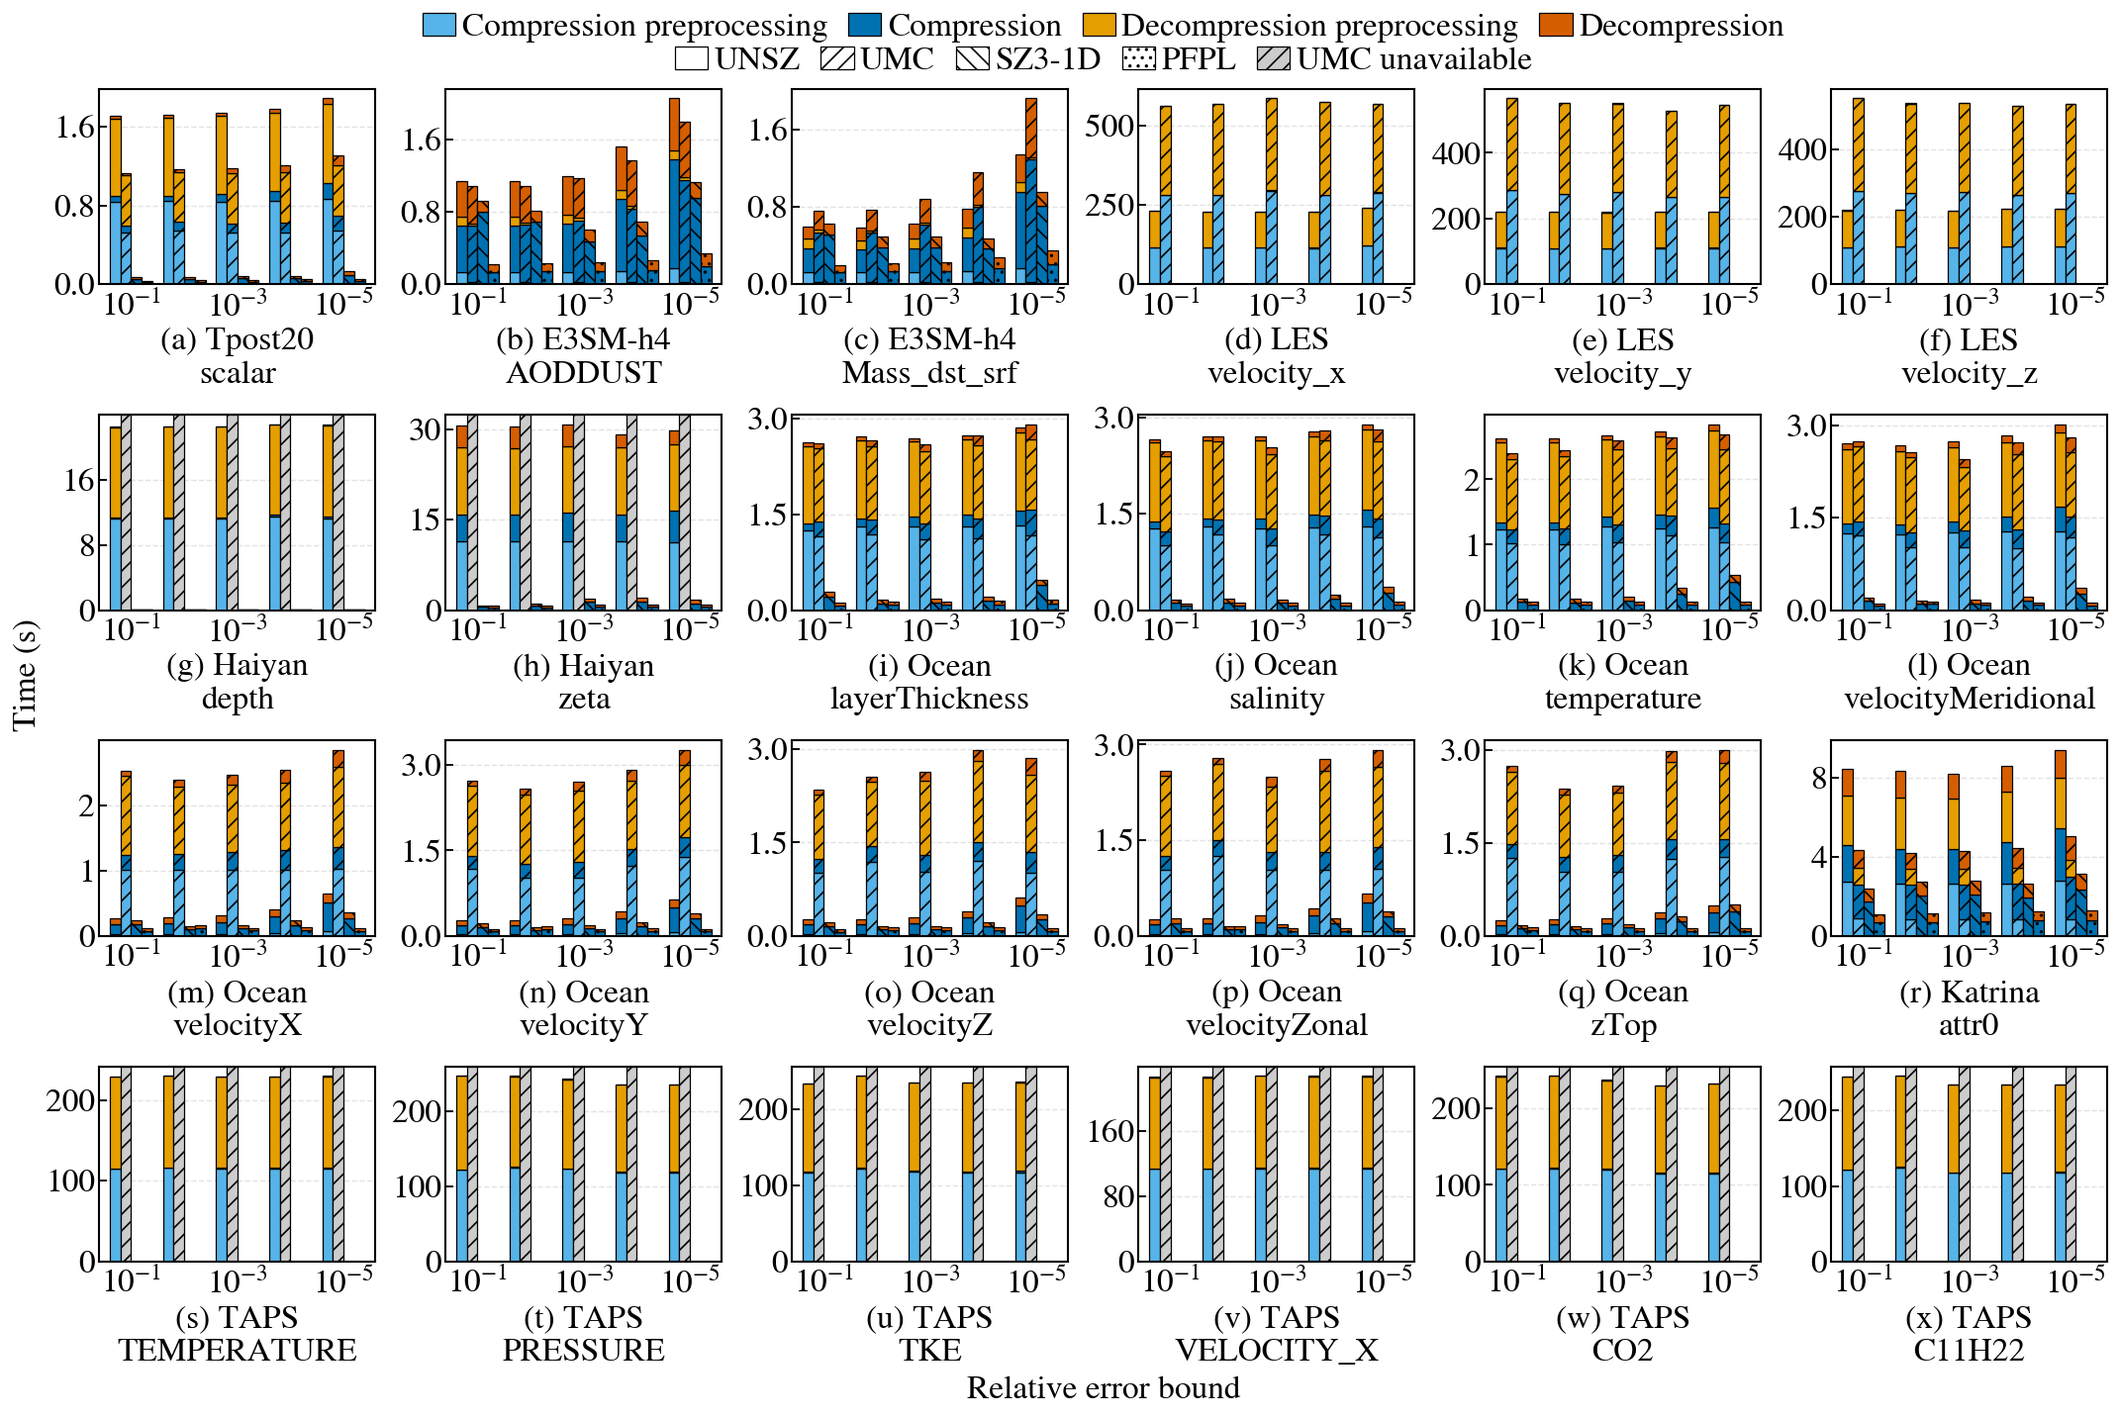
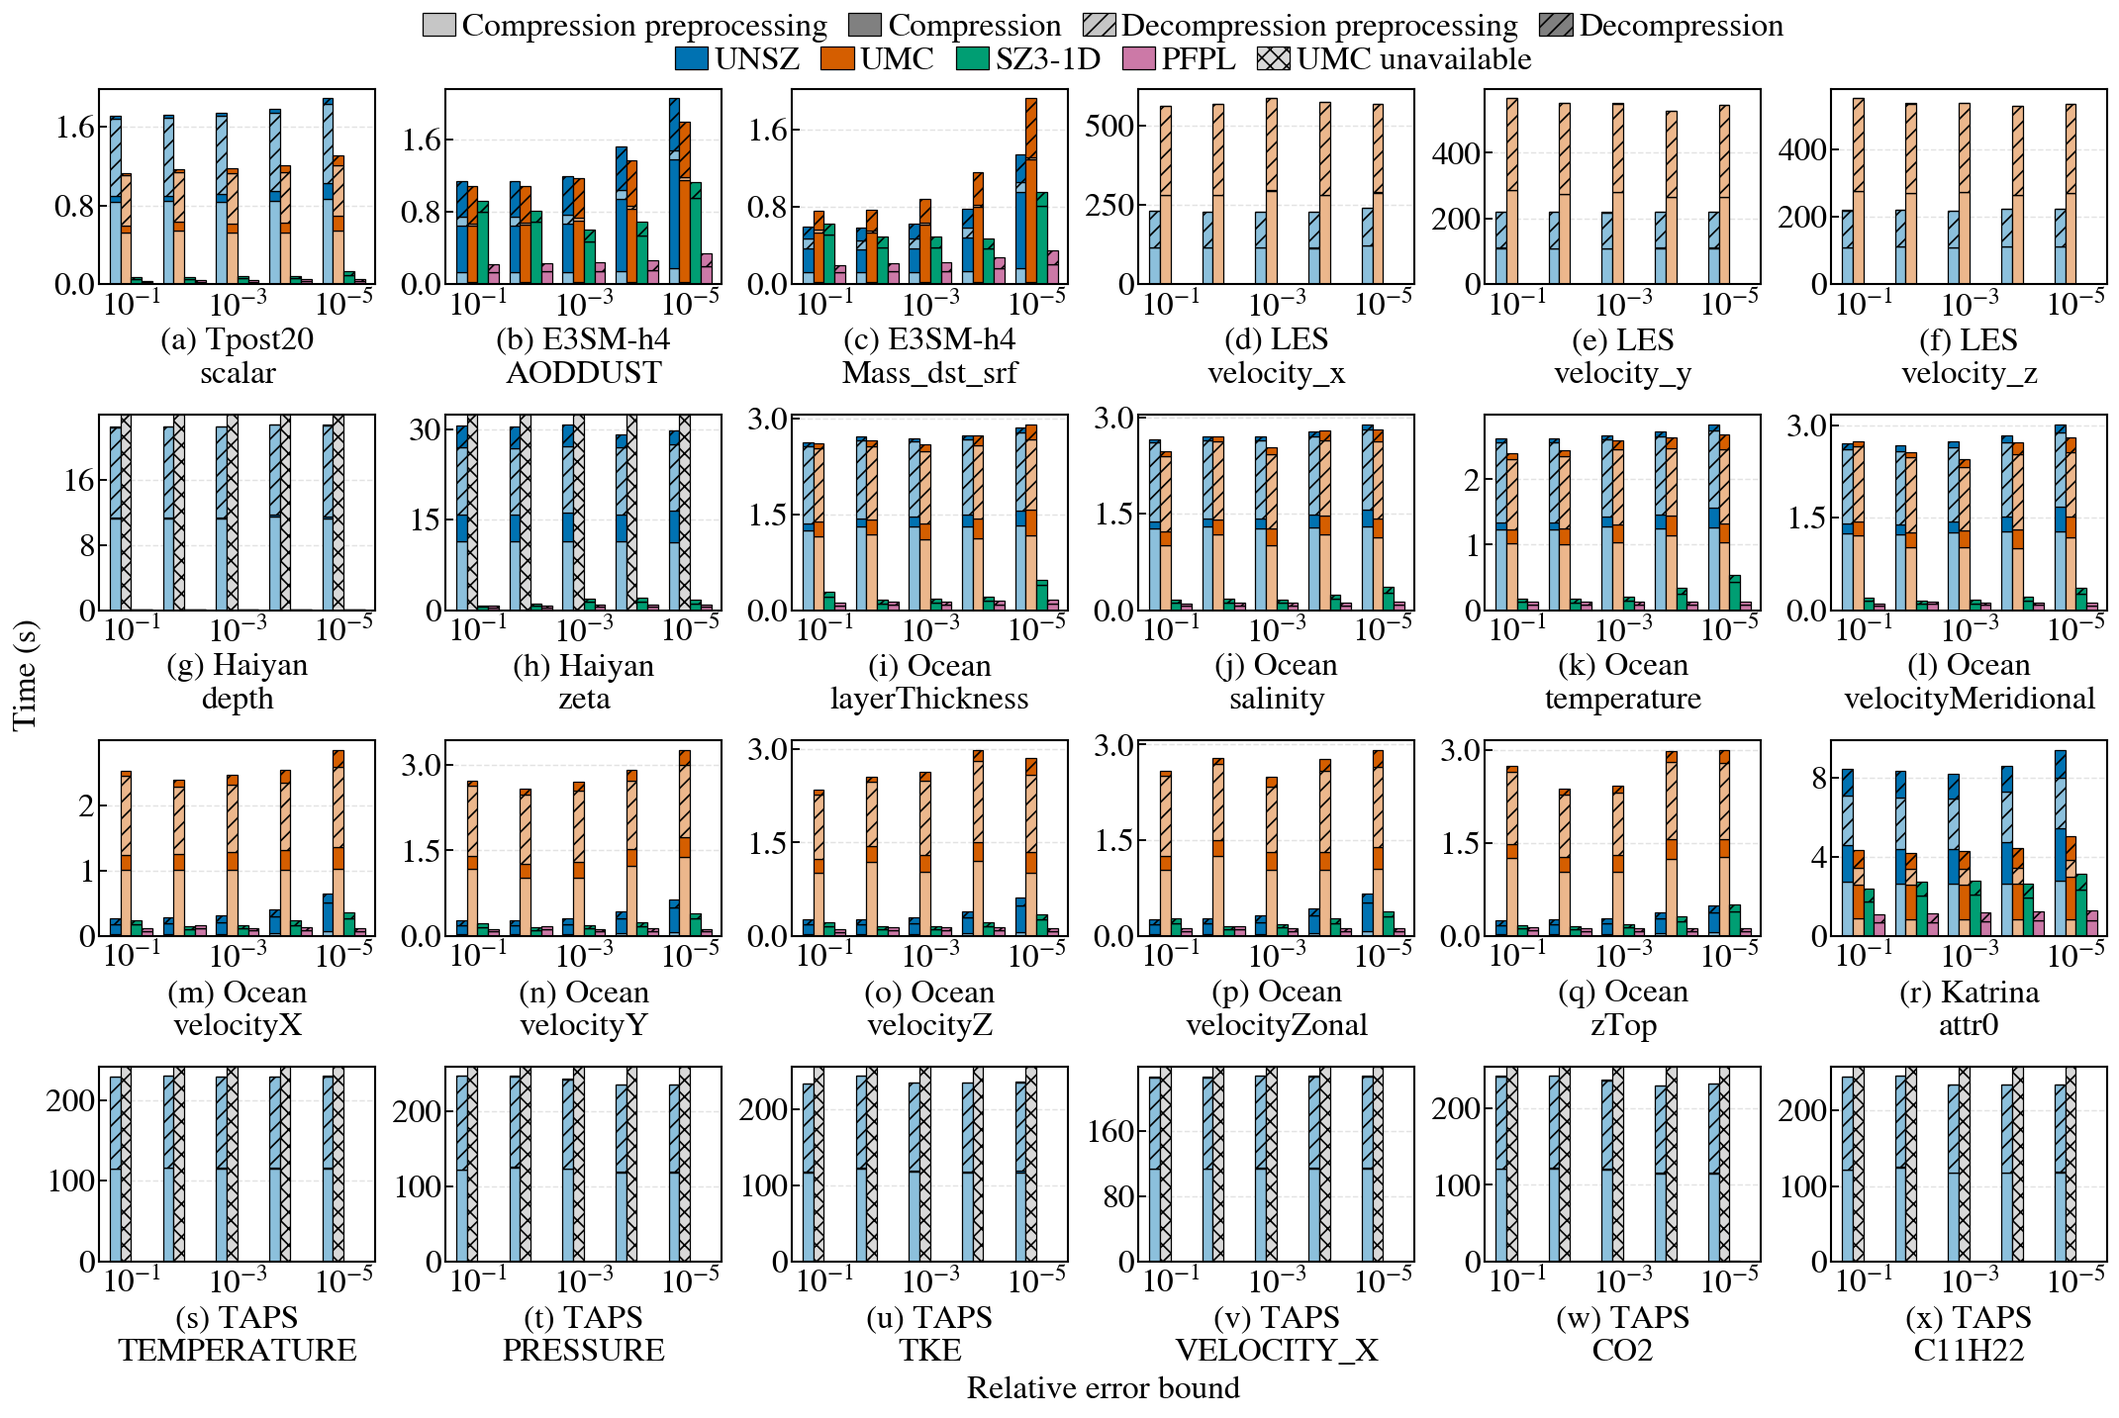
Add acknowledgments, redraw runtime figures, and revise Sections I-VII
- Add the funding, ALCF, and Anvil/ACCESS acknowledgment and a separate AI-generated content acknowledgment, and add Pinaki Pal as an author.
- Redraw Figures 7-9 so that colors mark compressors and shading and hatching mark the four time components, and show stacked time bars for Ocean-large.
- Move the speed comparison of the evaluated compressors to Section II-C and let Section III-E refer to it.
- Explain the preprocessing and codec speedups on Ocean-large, the parallelization and memory use of SZ3-ND and QoZ-ND, and the mean mesh degree of LES.
- Remove repeated explanations and compression ratios from runtime subsections, and simplify the conclusion.

diff --git a/py_codes/plot_ocean_large.py b/py_codes/plot_ocean_large.py
@@ -3,10 +3,11 @@ from pathlib import Path
 
 import matplotlib.pyplot as plt
 from matplotlib.lines import Line2D
+from matplotlib.patches import Patch
 from matplotlib.ticker import FixedLocator,LogLocator,MaxNLocator,NullLocator
-from paperfig import PANEL_GAP_WITH_YLABEL_PT,PaperFigureSpec,add_panel_captions,align_xlabels,apply_paper_style,layout_panel_row,legend_spacing_kwargs,panel_aspect_ratios,save_paper_png_vertical_crop,style_plot_axis
+from paperfig import DEFAULT_LEGEND_ROW_GAP_PT,MPL_POINTS_PER_INCH,PANEL_GAP_WITH_YLABEL_PT,PaperFigureSpec,add_panel_captions,align_xlabels,apply_paper_style,layout_panel_row,legend_spacing_kwargs,panel_aspect_ratios,save_paper_png_vertical_crop,style_plot_axis
 
-from plot_current_benchmarks import add_top_legend
+from plot_current_benchmarks import add_top_legend,time_segment_style,time_stage_handles,time_stage_labels
 from summarize_current_results import calculate_bd_rate
 
 
@@ -36,9 +37,26 @@ def load_runs(result_root,mode):
                 selected=[row for row in rows if shape is None or row["shape"]==shape]
                 error=sum(float(row["normalized_squared_error"]) for row in selected)
                 groups[shape]={"br":8*sum(int(row["compressed_bytes"]) for row in selected)/sum(int(row["value_num"]) for row in selected),"psnr":-10*math.log10(error/sum(int(row["valid_value_num"]) for row in selected))}
-            points.append({"rel_eb":summary["rel_eb"],"groups":groups,"compression_time":summary["reported_compression_time"],"decompression_time":summary["reported_decompression_time"],"total_codec_time":summary["total_codec_time"]})
+            points.append({"rel_eb":summary["rel_eb"],"groups":groups,"compression_time":summary["reported_compression_time"],"decompression_time":summary["reported_decompression_time"],"total_codec_time":summary["total_codec_time"],"components":time_components(summary,rows)})
         runs[codec]=sorted(points,key=lambda point:point["rel_eb"],reverse=True)
     return runs
+
+
+def time_components(summary,rows):
+    # 每一端的报告时间是最慢worker的累计时间；按该worker中预处理与编解码的比例拆分报告时间
+    # SZ3-1D和PFPL的行是各slice worker的累计时间之和，比例同样适用，且它们没有预处理
+    components={}
+    for side in("compression","decompression"):
+        workers={}
+        for row in rows:
+            times=workers.setdefault(row["worker_id"],[0.0,0.0])
+            times[0]+=float(row[f"{side}_preprocessing_time"] or 0)
+            times[1]+=float(row[f"{side}_time"] or 0)
+        preprocessing,codec=max(workers.values(),key=sum)
+        reported=summary[f"reported_{side}_time"]
+        components[f"{side}_preprocessing_time"]=reported*preprocessing/(preprocessing+codec)
+        components[f"{side}_time"]=reported*codec/(preprocessing+codec)
+    return components
 
 
 def legend_handles(codecs):
@@ -104,39 +122,52 @@ def plot_time(runs,scaling,mode,output_path):
 
 
 def plot_summary(runs,mode,output_path):
-    # 2/3栏宽一行两个子图：全部95个field的RD、128核下各EB的total codec time
+    # 一栏宽一行两个子图：全部95个field的RD、128核下各EB的耗时分解
+    # 两个子图都用颜色区分压缩器；耗时柱沿用图7的编码，浅色为预处理、深色为压缩或解压，斜线为解压一侧
     with plt.rc_context():
         apply_paper_style()
-        spec=PaperFigureSpec.column(width_fraction=2/3)
+        plt.rcParams["hatch.linewidth"]=.4
+        spec=PaperFigureSpec.column()
         figure,axes=plt.subplots(1,2,figsize=spec.size_in,dpi=spec.dpi)
         rd_axis,time_axis=axes
         rel_ebs=sorted({point["rel_eb"] for points in runs.values() for point in points},reverse=True)
+        bar_width=.2
+        offsets={codec:(index-(len(runs)-1)/2)*bar_width for index,codec in enumerate(runs)}
         for codec,points in runs.items():
-            color=styles[codec][0]
-            rd_axis.plot([point["groups"][None]["br"] for point in points],[point["groups"][None]["psnr"] for point in points],color=color,linewidth=.9)
-            times={point["rel_eb"]:point["total_codec_time"] for point in points}
-            time_axis.plot([eb_index for eb_index,rel_eb in enumerate(rel_ebs) if rel_eb in times],[times[rel_eb] for rel_eb in rel_ebs if rel_eb in times],color=color,linewidth=.9)
+            rd_axis.plot([point["groups"][None]["br"] for point in points],[point["groups"][None]["psnr"] for point in points],color=styles[codec][0],linewidth=.9)
+            for point in points:
+                bottom=0.0
+                for key,_ in time_stage_labels:
+                    value=point["components"][key]
+                    color,hatch=time_segment_style(styles[codec][0],key)
+                    time_axis.bar(rel_ebs.index(point["rel_eb"])+offsets[codec],value,width=bar_width,bottom=bottom,color=color,edgecolor="black",linewidth=.3,hatch=hatch)
+                    bottom+=value
         rd_axis.set_xscale("log")
         x_left,x_right=rd_axis.get_xlim()
         rd_axis.xaxis.set_major_locator(FixedLocator([tick for tick in LogLocator(base=10,numticks=4).tick_values(x_left,x_right) if x_left<=tick<=x_right]))
         rd_axis.set_xlabel("Bit rate (bits/value)")
         rd_axis.set_ylabel("PSNR (dB)")
-        # 2/3栏宽下五个刻度标签放不下，隔一个标一个
+        rd_axis.grid(True,which="major",linestyle="--",linewidth=.35,alpha=.35)
+        # 五个刻度标签放不下，隔一个标一个
         time_axis.set_xticks(range(len(rel_ebs)),[f"$10^{{{round(math.log10(rel_eb))}}}$" if eb_index%2==0 else "" for eb_index,rel_eb in enumerate(rel_ebs)])
-        time_axis.set_xlim(-.35,len(rel_ebs)-.65)
+        time_axis.set_xlim(-.6,len(rel_ebs)-.4)
         time_axis.set_xlabel("Relative error bound")
-        # 耗时轴一律用从0开始的线性坐标
         time_axis.set_ylim(bottom=0)
         time_axis.yaxis.set_major_locator(MaxNLocator(nbins=4))
         time_axis.set_ylabel("Time (s)")
+        time_axis.grid(True,axis="y",which="major",linestyle="--",linewidth=.35,alpha=.35)
         for axis in axes:
             axis.xaxis.set_minor_locator(NullLocator())
             axis.yaxis.set_minor_locator(NullLocator())
             axis.set_axisbelow(True)
-            axis.grid(True,which="major",linestyle="--",linewidth=.35,alpha=.35)
             style_plot_axis(axis)
-        layout_panel_row(figure,axes,panel_aspect_ratios(1,1),bottom_pt=40,panel_gap_pt=PANEL_GAP_WITH_YLABEL_PT,left_edge_gap_pt=3,right_edge_gap_pt=3)
-        add_top_legend(figure,[axes],[Line2D([],[],color=styles[codec][0],linewidth=.9,label=codec) for codec in runs],ncol=2 if len(runs)>3 else len(runs),**legend_spacing_kwargs(12))
+        layout_panel_row(figure,axes,panel_aspect_ratios(1,1.5),bottom_pt=40,panel_gap_pt=PANEL_GAP_WITH_YLABEL_PT,left_edge_gap_pt=3,right_edge_gap_pt=3)
+        # 两组图例各自居中：下面是压缩器的颜色，上面是耗时阶段
+        codec_handles=[Patch(facecolor=styles[codec][0],edgecolor="black",linewidth=.3,label=codec) for codec in runs]
+        codec_legend=add_top_legend(figure,[axes],codec_handles,gap_pt=3,ncol=len(runs),**legend_spacing_kwargs(8))
+        codec_legend_height_pt=codec_legend.get_window_extent(figure.canvas.get_renderer()).height*MPL_POINTS_PER_INCH/figure.dpi
+        component_handles=time_stage_handles()
+        add_top_legend(figure,[axes],component_handles,gap_pt=3+codec_legend_height_pt+DEFAULT_LEGEND_ROW_GAP_PT,ncol=2,**legend_spacing_kwargs(8))
         align_xlabels(figure,axes)
         add_panel_captions(figure,axes,["(a) Rate\u2013distortion","(b) Time on 128 cores"])
         output_path.parent.mkdir(parents=True,exist_ok=True)

diff --git a/py_codes/plot_current_benchmarks.py b/py_codes/plot_current_benchmarks.py
@@ -2,6 +2,7 @@ import argparse,csv,json,math,string
 from pathlib import Path
 
 import matplotlib.pyplot as plt
+from matplotlib.colors import to_rgb
 from matplotlib.ticker import FixedLocator,LogLocator,MaxNLocator,NullLocator
 from paperfig import DEFAULT_LEGEND_GAP_PT,DEFAULT_LEGEND_ROW_GAP_PT,DEFAULT_Y_LABEL_GAP_PT,MPL_POINTS_PER_INCH,PANEL_GAP_WITH_YTICKS_PT,PaperFigureSpec,add_shared_xlabel,align_xlabels,apply_paper_style,layout_panel_grid,legend_spacing_kwargs,panel_aspect_ratios,save_paper_png_vertical_crop,set_legend_row_gap,style_plot_axis
 from matplotlib.lines import Line2D
@@ -20,6 +21,9 @@ compressor_styles={"unsz":{"label":"UNSZ","color":"#0072B2","marker":"s"},"umc":
 tensor_1d_codecs=("sz3_1d","pfpl")
 unsz_time_components=(("compression_preprocessing_time","Compression preprocessing","#56B4E9"),("compression_time","Compression","#0072B2"),("decompression_preprocessing_time","Decompression preprocessing","#E69F00"),("decompression_time","Decompression","#D55E00"))
 umc_time_components=(("compression_preprocessing_time","Compression preprocessing","#56B4E9"),("compression_time","Compression","#0072B2"),("decompression_preprocessing_time","Decompression preprocessing","#E69F00"),("decompression_time","Decompression","#D55E00"))
+# 耗时堆叠柱：颜色区分压缩器，浅色为预处理、深色为压缩或解压，斜线为解压一侧
+time_stage_labels=(("compression_preprocessing_time","Compression preprocessing"),("compression_time","Compression"),("decompression_preprocessing_time","Decompression preprocessing"),("decompression_time","Decompression"))
+unavailable_bar_style={"color":".85","hatch":"xxxxxx"}
 timing_summary_keys=("coordinate_rescaling_time","prediction_structure_time","automatic_pipeline_selection_time","compression_preprocessing_time","compression_time","decompression_preprocessing_time","decompression_time")
 
 
@@ -97,6 +101,16 @@ def load_tensor_1d_rows(fields):
             if len(rows)!=5 or not all(row["valid"]=="True" for row in rows):
                 raise ValueError(f"{task['name']}:{field}的{codec}曲线不完整或未通过误差检查")
     return curves
+
+
+def time_segment_style(color,key):
+    light=tuple(1-(1-channel)*.45 for channel in to_rgb(color))
+    return (light if "preprocessing" in key else color),("//////" if key.startswith("decompression") else "")
+
+
+def time_stage_handles():
+    # 图例用灰色示意四个阶段，与压缩器的颜色无关
+    return [Patch(facecolor=time_segment_style("#808080",key)[0],edgecolor="black",linewidth=.3,hatch=time_segment_style("#808080",key)[1],label=label) for key,label in time_stage_labels]
 
 
 def subplot_grid(item_num,column_num=6):
@@ -218,7 +232,6 @@ def plot_time_by_eb(fields,tensor_1d_rows,output_dir,column_num=6):
         rel_ebs=(1e-1,1e-2,1e-3,1e-4,1e-5)
         bar_width=.2
         compressor_offsets={"unsz":-1.5*bar_width,"umc":-.5*bar_width,"sz3_1d":.5*bar_width,"pfpl":1.5*bar_width}
-        compressor_hatches={"unsz":"","umc":"//////","sz3_1d":"\\\\\\\\\\\\","pfpl":"......"}
         for index,((dataset,task,field,rows,_),axis) in enumerate(zip(fields,axes.ravel())):
             for eb_index,rel_eb in enumerate(rel_ebs):
                 for compressor in (*task["compressor_list"],*tensor_1d_codecs):
@@ -226,18 +239,18 @@ def plot_time_by_eb(fields,tensor_1d_rows,output_dir,column_num=6):
                         row=next(row for row in tensor_1d_rows[(task["name"],field)][compressor] if math.isclose(float(row["rel_eb"]),rel_eb,rel_tol=1e-9))
                     else:
                         row=next(row for row in rows if row["compressor"]==compressor and math.isclose(row["rel_eb_value"],rel_eb,rel_tol=1e-9))
-                    components=unsz_time_components if compressor=="unsz" else umc_time_components
                     bottom=0.0
-                    for key,_,color in components:
+                    for key,_ in time_stage_labels:
                         value=float(row.get(key,0))
-                        axis.bar(eb_index+compressor_offsets[compressor],value,width=bar_width,bottom=bottom,color=color,edgecolor="black",linewidth=.3,hatch=compressor_hatches[compressor])
+                        color,hatch=time_segment_style(compressor_styles[compressor]["color"],key)
+                        axis.bar(eb_index+compressor_offsets[compressor],value,width=bar_width,bottom=bottom,color=color,edgecolor="black",linewidth=.3,hatch=hatch)
                         bottom+=value
             axis.yaxis.set_major_locator(MaxNLocator(nbins=3))
             axis.set_ylim(0,axis.get_ylim()[1])
             if "umc" not in task["compressor_list"]:
                 top=axis.get_ylim()[1]
                 for eb_index in range(len(rel_ebs)):
-                    axis.bar(eb_index+compressor_offsets["umc"],top,width=bar_width,color=".8",edgecolor="black",linewidth=.3,hatch=compressor_hatches["umc"])
+                    axis.bar(eb_index+compressor_offsets["umc"],top,width=bar_width,edgecolor="black",linewidth=.3,**unavailable_bar_style)
                 axis.set_ylim(0,top)
             axis.set_xlim(-.6,len(rel_ebs)-.4)
             axis.set_xticks(range(len(rel_ebs)),[f"$10^{{{round(math.log10(rel_eb))}}}$" if eb_index%2==0 else "" for eb_index,rel_eb in enumerate(rel_ebs)])
@@ -250,14 +263,10 @@ def plot_time_by_eb(fields,tensor_1d_rows,output_dir,column_num=6):
             align_xlabels(figure,row)
         add_shared_ylabel(figure,axes[:,0],ylabel)
         add_shared_xlabel(figure,axes[-1],"Relative error bound",source_artists=[axis.xaxis.label for axis in axes[-1]])
-        component_styles=[]
-        for _,label,color in (*unsz_time_components,*umc_time_components):
-            if (label,color) not in component_styles:
-                component_styles.append((label,color))
-        component_handles=[Patch(facecolor=color,edgecolor="black",linewidth=.3,label=label) for label,color in component_styles]
-        compressor_handles=[Patch(facecolor="white",edgecolor="black",linewidth=.3,hatch=compressor_hatches[compressor],label=compressor_styles[compressor]["label"]) for compressor in compressor_offsets]
-        compressor_handles.append(Patch(facecolor=".8",edgecolor="black",linewidth=.3,hatch=compressor_hatches["umc"],label="UMC unavailable"))
-        # 两行图例各自居中：下一行是压缩器，上一行是耗时的组成部分；占位柱顶到绘图区上沿，图例需要多留一些距离
+        component_handles=time_stage_handles()
+        compressor_handles=[Patch(facecolor=compressor_styles[compressor]["color"],edgecolor="black",linewidth=.3,label=compressor_styles[compressor]["label"]) for compressor in compressor_offsets]
+        compressor_handles.append(Patch(facecolor=unavailable_bar_style["color"],edgecolor="black",linewidth=.3,hatch=unavailable_bar_style["hatch"],label="UMC unavailable"))
+        # 两行图例各自居中：下一行是压缩器，上一行是耗时的组成部分
         compressor_legend=add_top_legend(figure,axes,compressor_handles,gap_pt=3,ncol=len(compressor_handles),**legend_spacing_kwargs(8))
         compressor_legend_height_pt=compressor_legend.get_window_extent(figure.canvas.get_renderer()).height*MPL_POINTS_PER_INCH/figure.dpi
         add_top_legend(figure,axes,component_handles,gap_pt=3+compressor_legend_height_pt+DEFAULT_LEGEND_ROW_GAP_PT,ncol=len(component_handles),**legend_spacing_kwargs(8))
